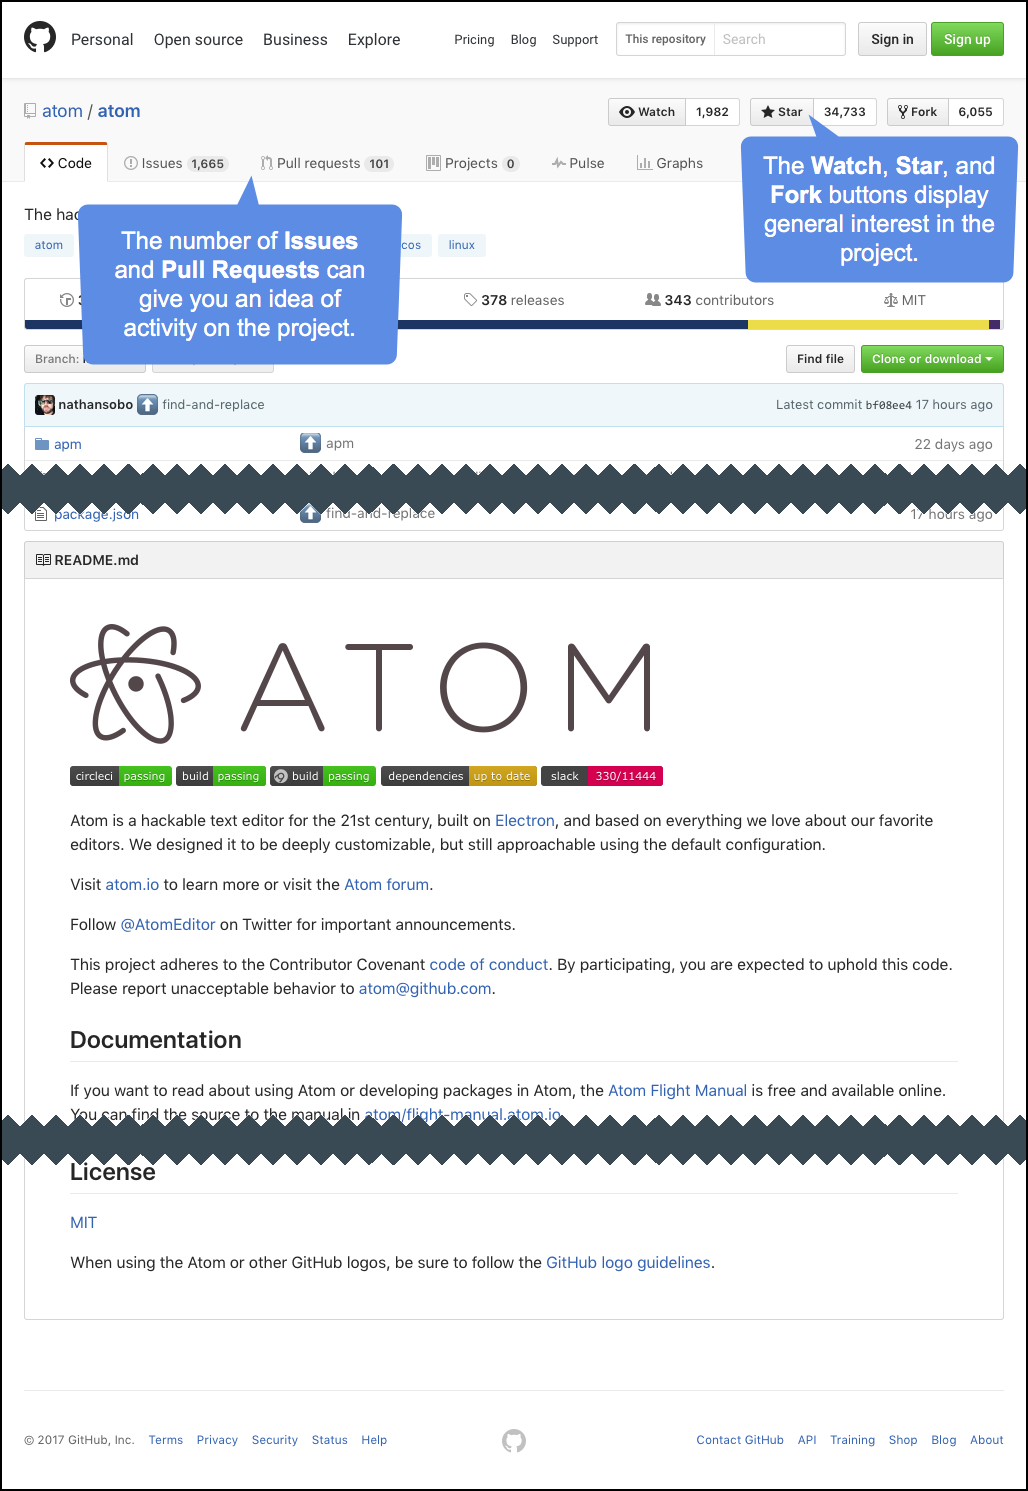
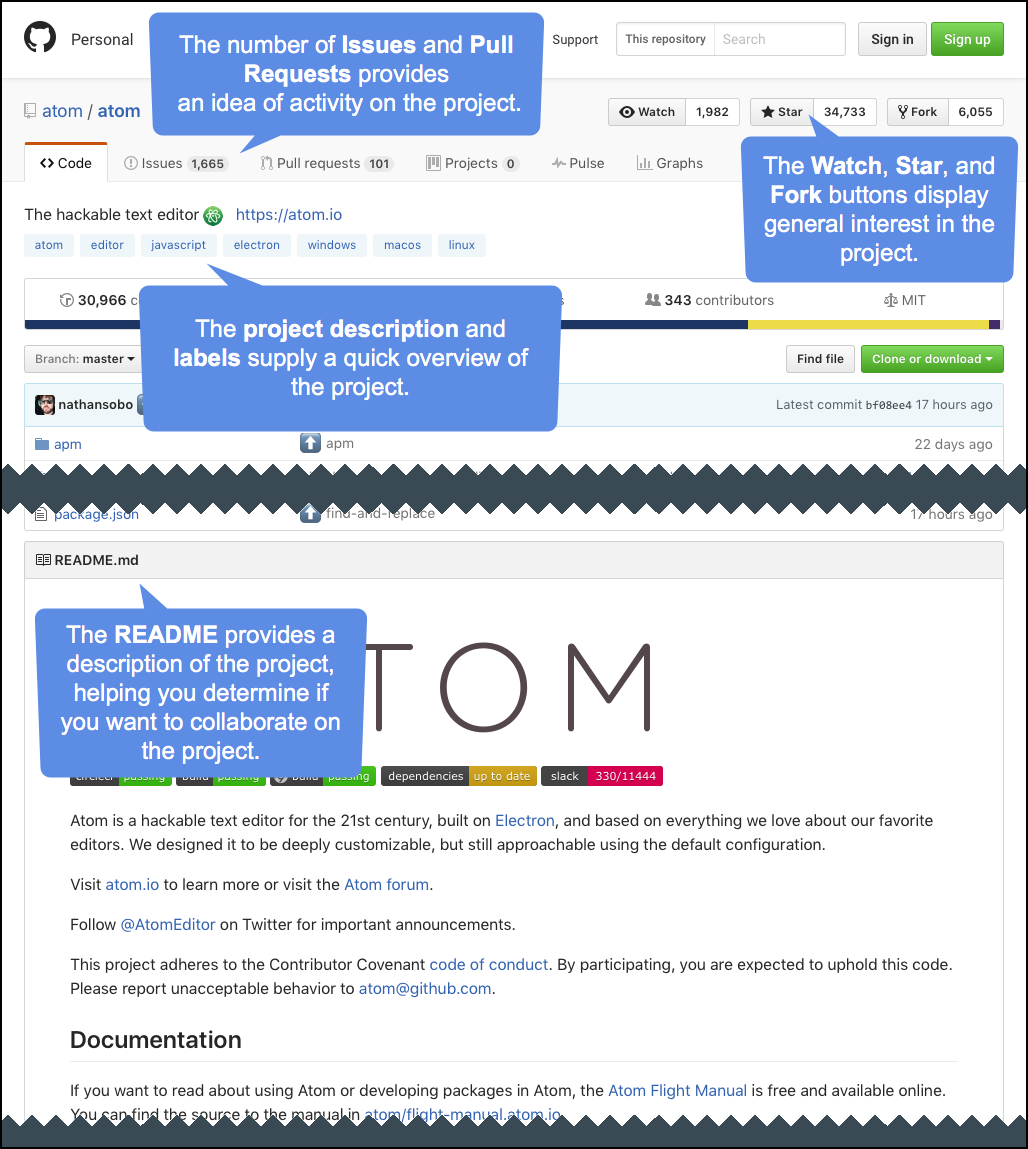
Update Health Check image / text

diff --git a/paths/open-source/04-healthcheck.md b/paths/open-source/04-healthcheck.md
@@ -10,8 +10,7 @@ facilitator: false
 sidebar:
   nav: "open-source"
 main-content: |
-  ### When looking at a repository for the first time, you can typically follow this pattern of assessment.
-  _We recommend watching the video for this section, if you've been skipping them so far._
+  Before deciding to contribute to a project, you can inspect a couple of elements of the repository to determine if their is active development on it. Using the [Atom](www.github.com/atom) repository as an example, lets review some areas that help determine the health of a repository.
 
   ![image-center](../images/os_repoexample.png){: .align-center}
 
